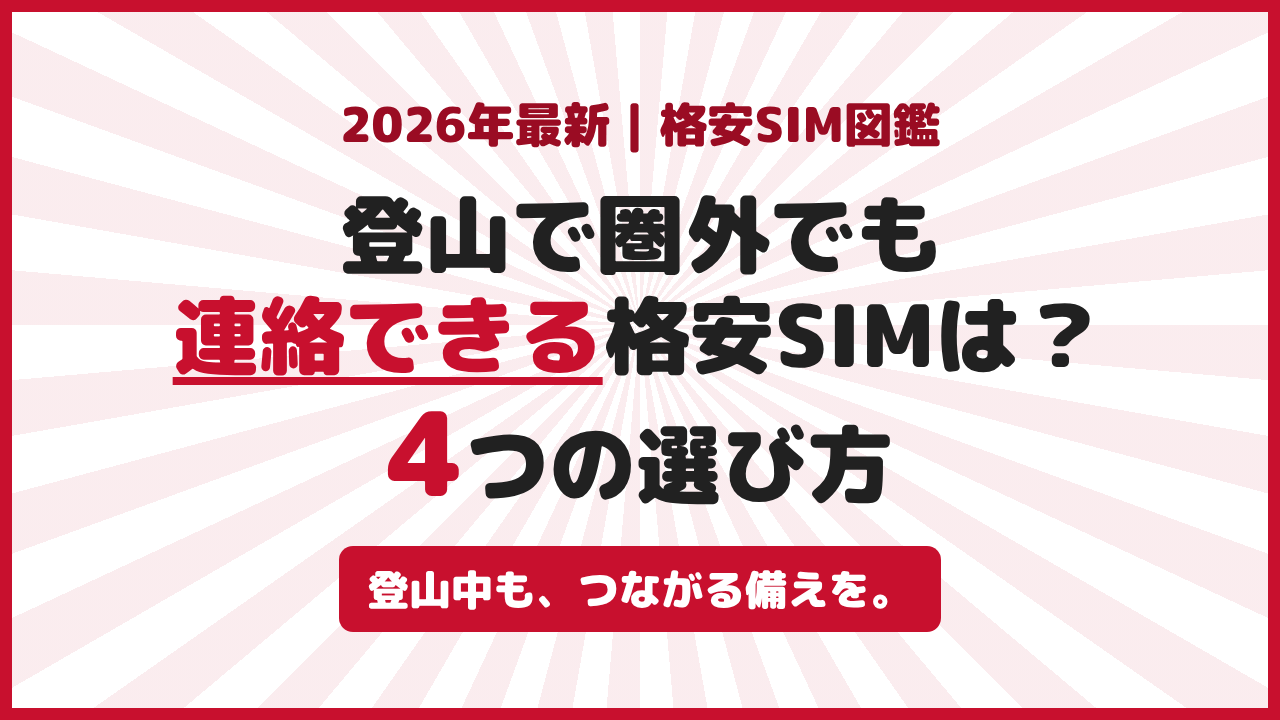
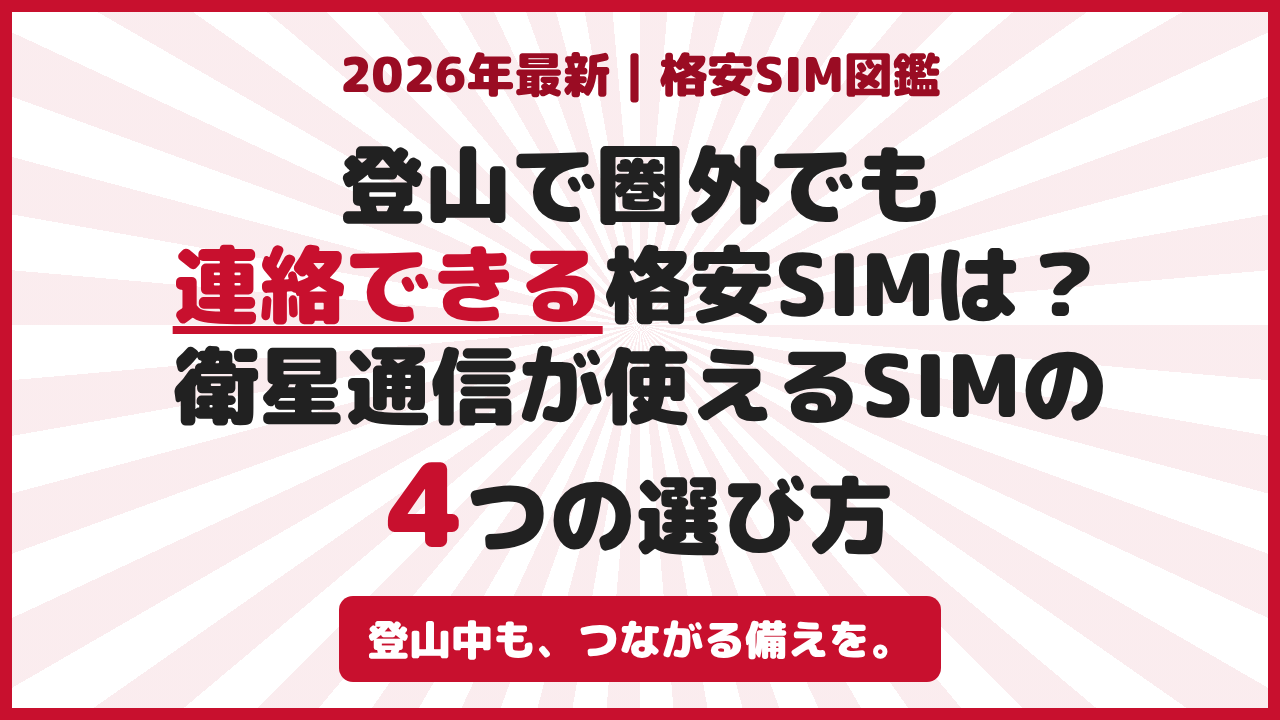
#51: イントロの台本修正を反映（スライド1のテロップ、スライド4のタイトル）
Claude-Session: https://claude.ai/code/session_019XsDkDQfkhc2RhdJDnsjYg

Changed region(s): [[0.125, 0.0611, 0.875, 0.9472]]

diff --git a/slides.html b/slides.html
@@ -14,7 +14,7 @@
 .chart{flex:1;display:flex;justify-content:center;align-items:center;min-height:0}.chart img{max-width:100%;max-height:100%;object-fit:contain}.sheet{width:100%;font-size:34px}.sheet th,.sheet td{padding:16px}.visual img{max-width:100%;max-height:500px;object-fit:contain}.blog-visual img{max-height:320px}.page.left:has(.divider){justify-content:center}.page.left:has(.divider) .page-head{display:none}.page.left:has(.divider) .page-body{justify-content:center;align-items:center}.page.left:has(.divider) .divider{margin:0 auto}.logos{display:flex;justify-content:center;gap:70px;font-size:130px;color:var(--brand);padding:28px}
 </style></head><body><!-- Slide ID: 1 -->
 <div class="slide-container std"><div class="std-burst"></div><div class="std-copy">
- <div class="std-kicker">登山中のもしもに備える</div><div class="std-title">格安SIMにしたら<br><span class="intro-red">山で圏外</span>？<br>連絡できない？</div>
+ <div class="std-kicker">登山中のもしもに備える</div><div class="std-title"><span class="intro-red">山で圏外</span>でも<br>連絡できる<br>格安SIMを教えて！</div>
  <img class="intro-figure" src="public/images/irasutoya/shinpai_man.png" alt="圏外に困る人"><div class="std-footer">登山中も、つながる備えを。</div></div></div>
 <!-- Slide ID: 2 -->
 <div class="slide-container std"><div class="std-burst"></div><div class="std-copy">
@@ -26,7 +26,7 @@
  <div class="intro-logos"><img src="public/images/logo/docomo_logo.png" alt="ドコモ"><img src="public/images/logo/au_logo.png" alt="au"><img src="public/images/logo/Softbank_logo.png" alt="ソフトバンク"></div><div class="std-footer">登山中も、つながる備えを。</div></div></div>
 <!-- Slide ID: 4 -->
 <div class="slide-container std"><div class="std-burst"></div><div class="std-copy">
- <div class="std-kicker">2026年最新｜格安SIM図鑑</div><div class="std-title">登山で圏外でも<br><span class="intro-red">連絡できる</span>格安SIMは？<br><span class="intro-count">4</span>つの選び方</div>
+ <div class="std-kicker">2026年最新｜格安SIM図鑑</div><div class="std-title">登山で圏外でも<br><span class="intro-red">連絡できる</span>格安SIMは？<br>衛星通信が使えるSIMの<br><span class="intro-count">4</span>つの選び方</div>
  <div class="std-footer">登山中も、つながる備えを。</div></div></div>
 <!-- Slide ID: 5 -->
 <div class="slide-container " style="--brand:#C8102E;--brand-deep:#9a0c23;--brand-soft:#fde3e7">

diff --git a/scripts/generate_51_slides.py b/scripts/generate_51_slides.py
@@ -225,12 +225,12 @@ def footer(slide_id: str, content: str) -> str:
 def render(slide_id: str, content: str) -> str:
     if slide_id in {'1','2','3'}:
         if slide_id=='1':
-            return std(slide_id,'格安SIMにしたら<br><span class="intro-red">山で圏外</span>？<br>連絡できない？','登山中のもしもに備える','<img class="intro-figure" src="public/images/irasutoya/shinpai_man.png" alt="圏外に困る人">')
+            return std(slide_id,'<span class="intro-red">山で圏外</span>でも<br>連絡できる<br>格安SIMを教えて！','登山中のもしもに備える','<img class="intro-figure" src="public/images/irasutoya/shinpai_man.png" alt="圏外に困る人">')
         if slide_id=='2':
             return std(slide_id,'登山する人に<br>おすすめの<br><span class="intro-red">格安SIM</span>は？','友達からの相談')
         return std(slide_id,'ドコモ・au・ソフトバンク<br><span class="intro-red">衛星通信</span>を開始','格安SIMでも山の連絡手段を持てる','<div class="intro-logos"><img src="public/images/logo/docomo_logo.png" alt="ドコモ"><img src="public/images/logo/au_logo.png" alt="au"><img src="public/images/logo/Softbank_logo.png" alt="ソフトバンク"></div>')
     if slide_id=='4':
-        return std(slide_id,'登山で圏外でも<br><span class="intro-red">連絡できる</span>格安SIMは？<br><span class="intro-count">4</span>つの選び方','2026年最新｜格安SIM図鑑')
+        return std(slide_id,'登山で圏外でも<br><span class="intro-red">連絡できる</span>格安SIMは？<br>衛星通信が使えるSIMの<br><span class="intro-count">4</span>つの選び方','2026年最新｜格安SIM図鑑')
     if slide_id=='5': return agenda(content)
     if re.fullmatch(r'\d+-0',slide_id) and content.startswith('第'):
         return chapter(slide_id,content)
